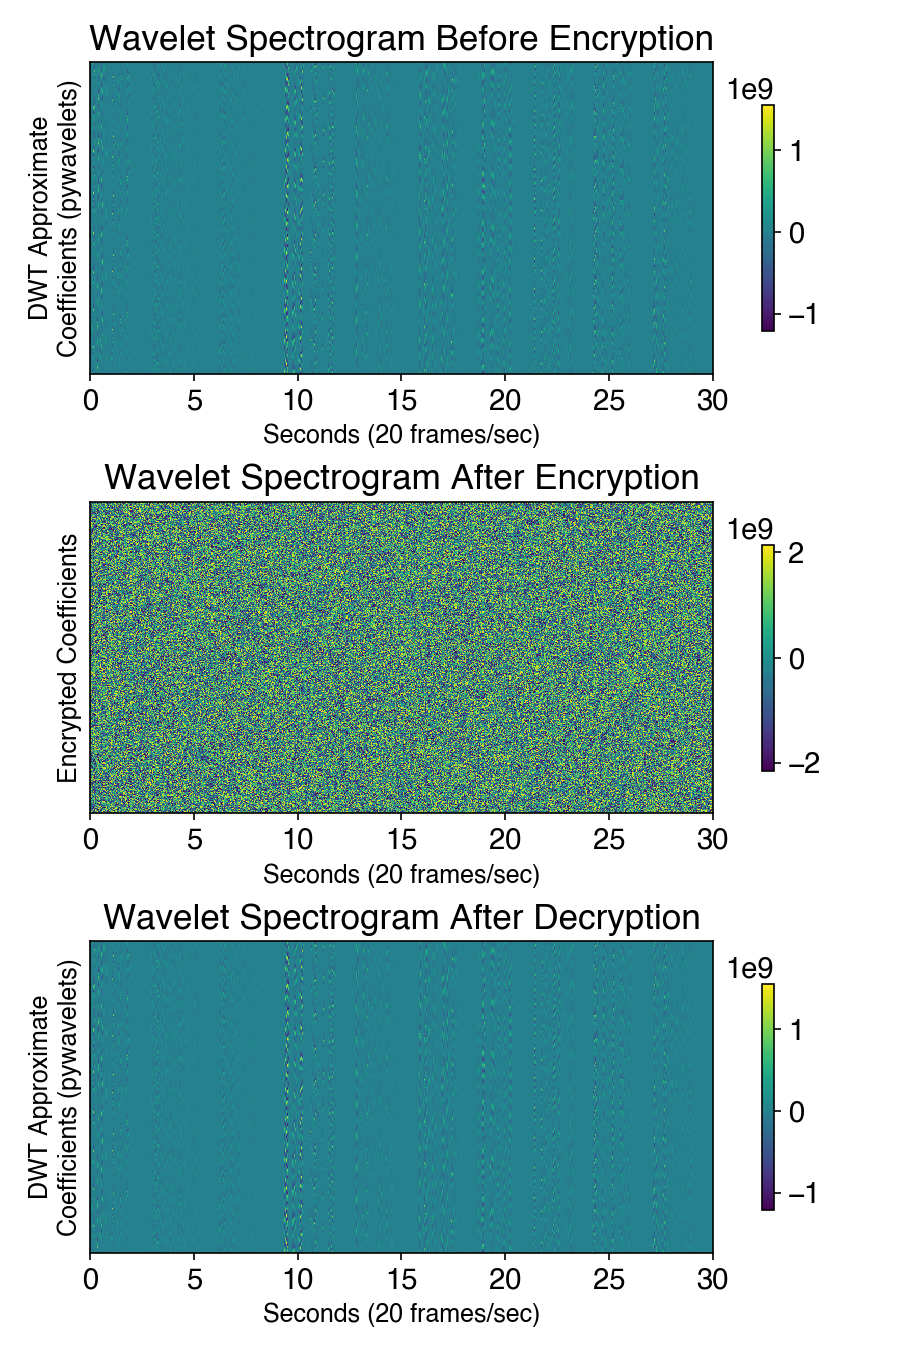
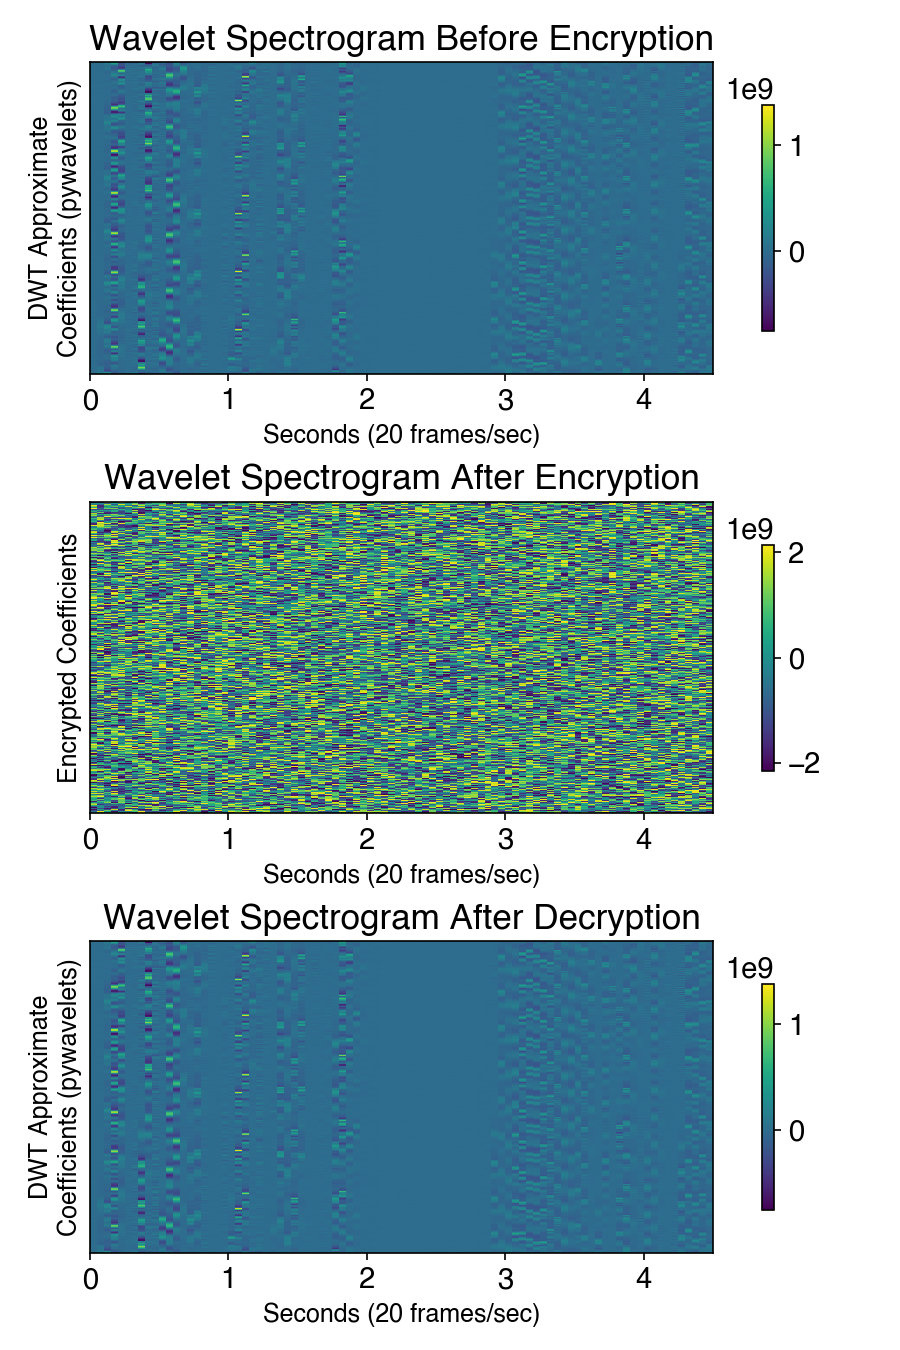
Some minor updates, nothing much Still have to add few README files Nyaa~

diff --git a/generate_graphs.py b/generate_graphs.py
@@ -11,7 +11,7 @@ mpl.rcParams.update({
 })
 
 # ----- Customize -----
-max_frames = round(20 * 30)
+max_frames = round(20 * 4.5)
 ticks_per_second = 20
 # Docs: https://matplotlib.org/stable/gallery/images_contours_and_fields/interpolation_methods.html
 # Usually "none" or "antialiased"
@@ -29,6 +29,7 @@ data = data[:datapoints]
 shape = data.shape
 data = np.ndarray.tobytes(data)
 data = np.frombuffer(data, dtype=np.int32).reshape(shape).T
+data_original = data
 aspect = size / datapoints
 x_extent = max_frames / ticks_per_second
 y_extent = x_extent / shape[1] * shape[0]
@@ -58,6 +59,7 @@ data = data[:datapoints]
 shape = data.shape
 data = np.ndarray.tobytes(data)
 data = np.frombuffer(data, dtype=np.int32).reshape(shape).T
+data_mid = data
 aspect = size / datapoints
 y_extent = x_extent / shape[1] * shape[0]
 
@@ -86,6 +88,7 @@ data = data[:datapoints]
 shape = data.shape
 data = np.ndarray.tobytes(data)
 data = np.frombuffer(data, dtype=np.int32).reshape(shape).T
+data_after = data
 aspect = size / datapoints
 y_extent = x_extent / shape[1] * shape[0]
 
@@ -112,14 +115,23 @@ plt.tight_layout()
 plt.savefig("./output/spectrogram.png")
 # plt.show()
 
+print("Average:", np.average(data))
+print("STD:", np.std(data))
+
+data_original = np.array(data_original, dtype=np.int64)
+data_mid = np.array(data_mid, dtype=np.int64)
+data_after = np.array(data_after, dtype=np.int64)
+
+# MSE values used in paper
+print("MSE Before:", np.average((data_original - data_mid)**2))
+print("MSE After:", np.average((data_original - data_after)**2))
+
 # New graph
 plt.close()
 
 data = np.load("./output/time_data.npy", allow_pickle=False) / 10**6
 datapoints = min(data.shape[0], max_frames)
 data = data[:datapoints]
-print(np.average(data))
-print(np.std(data))
 total_time = data.size // 20 if data.size % 20 == 0 else data.size / 20
 
 plt.scatter(np.linspace(0, total_time, data.size), data)

diff --git a/audio-merge/audio-merge.py b/audio-merge/audio-merge.py
@@ -5,7 +5,9 @@ with open("./audio-merge.txt", "r") as f:
 
 os.system(f"sox {' '.join(files[:25])} output0.wav")
 
-for i in range(len(files)//25):
-  os.system(f"sox output{i}.wav {' '.join(files[25+i*25 : min(50+i*25, len(files))])} output{i+1}.wav")
+for i in range(len(files) // 25):
+  os.system(
+      f"sox output{i}.wav {' '.join(files[25+i*25 : min(50+i*25, len(files))])} output{i+1}.wav"
+  )
 
 print(len(files))
